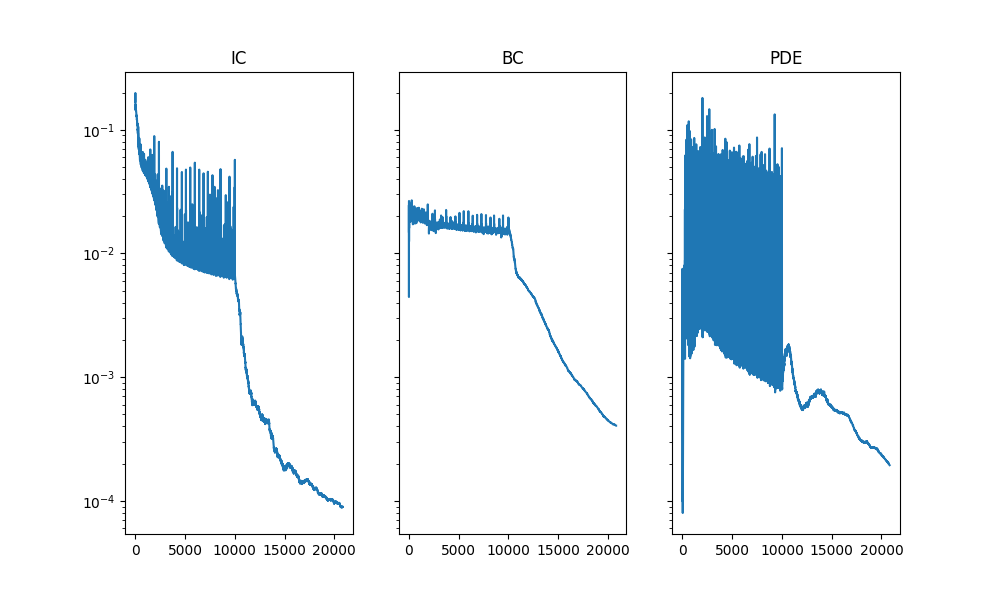
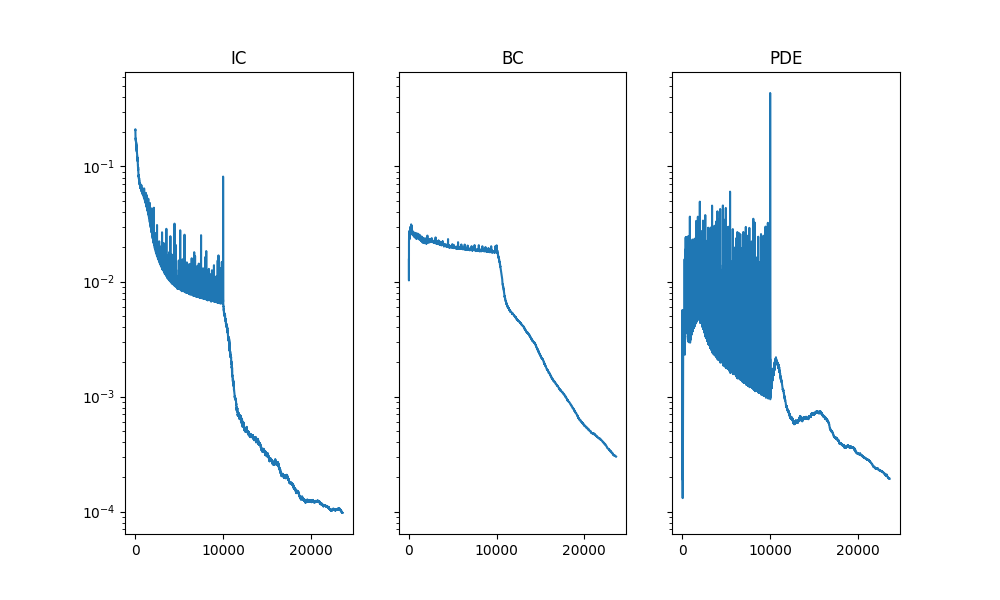
Modify learning rate of adam

diff --git a/Wave/2D/main.py b/Wave/2D/main.py
@@ -21,8 +21,8 @@ t_max = 1.0
 ub = np.array([x_max, y_max, t_max])
 lb = np.array([x_min, y_min, t_min])
 
-N_0 = 100
-N_bc = 100
+N_0 = 200
+N_bc = 200
 N_f = 20000
 
 
@@ -104,8 +104,8 @@ class PINN:
             tolerance_change=1.0 * np.finfo(float).eps,
             line_search_fn="strong_wolfe",
         )
+        self.adam = torch.optim.Adam(self.net.parameters(), lr=5e-4)
         self.losses = {"ic": [], "bc": [], "pde": []}
-        self.adam = torch.optim.Adam(self.net.parameters(), lr=1e-3)
 
     def loss_ic(self, xyt):
         xyt = xyt.clone()
